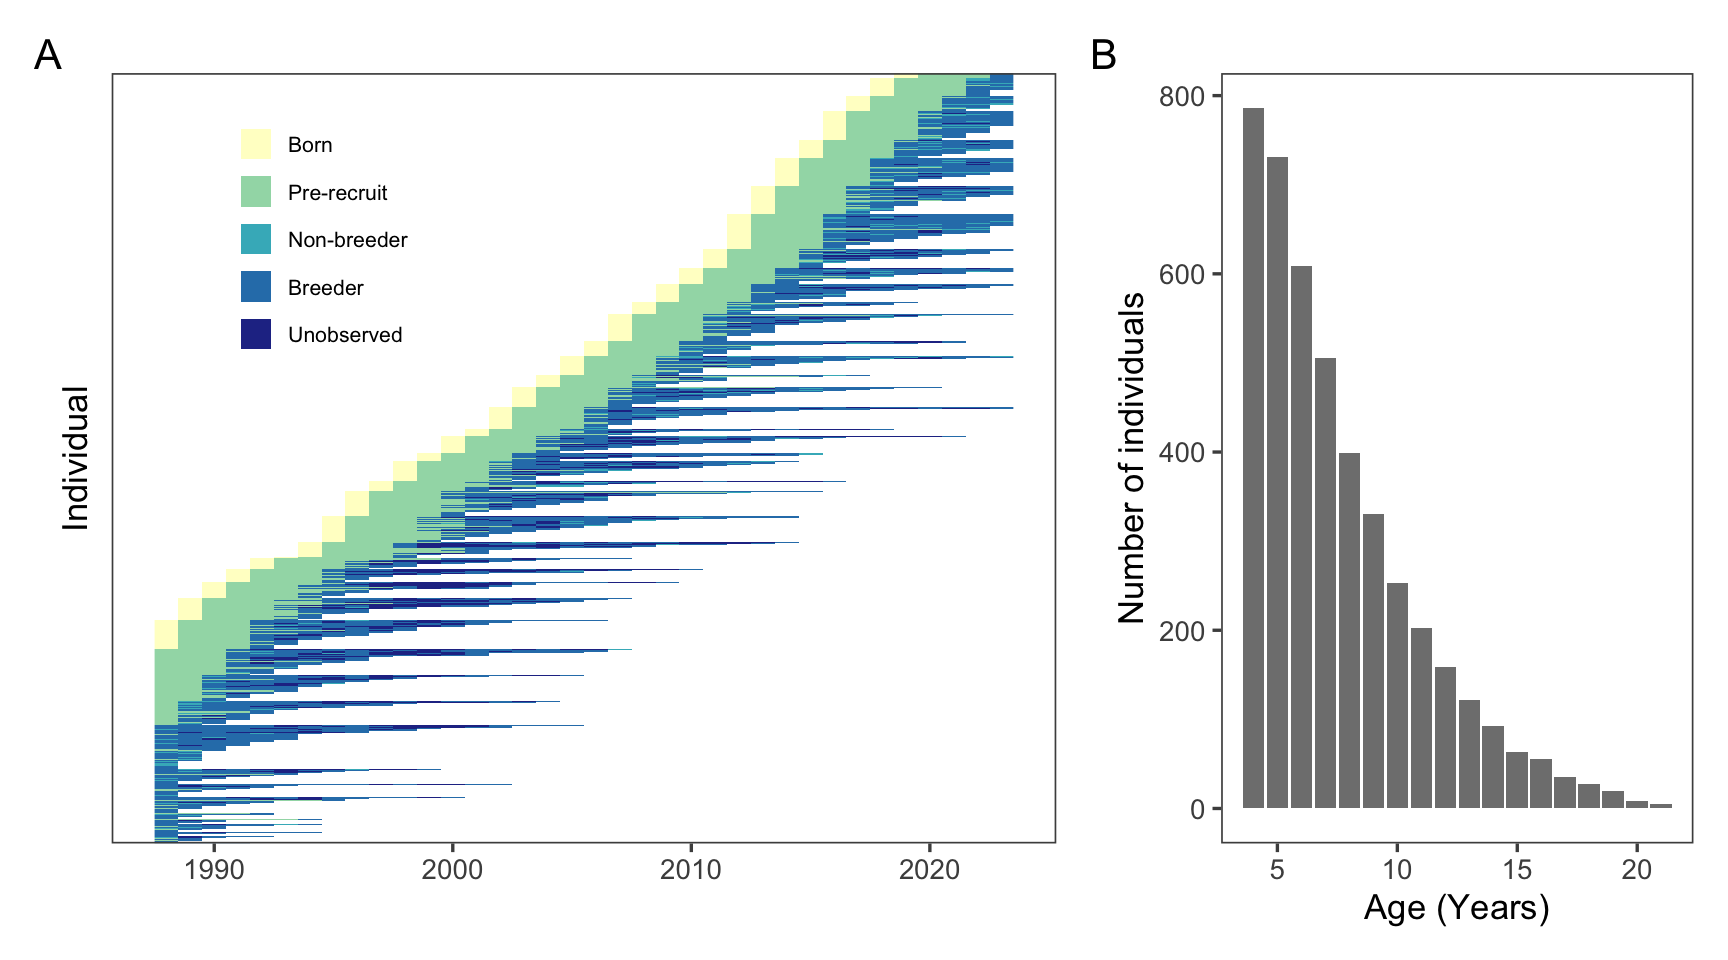
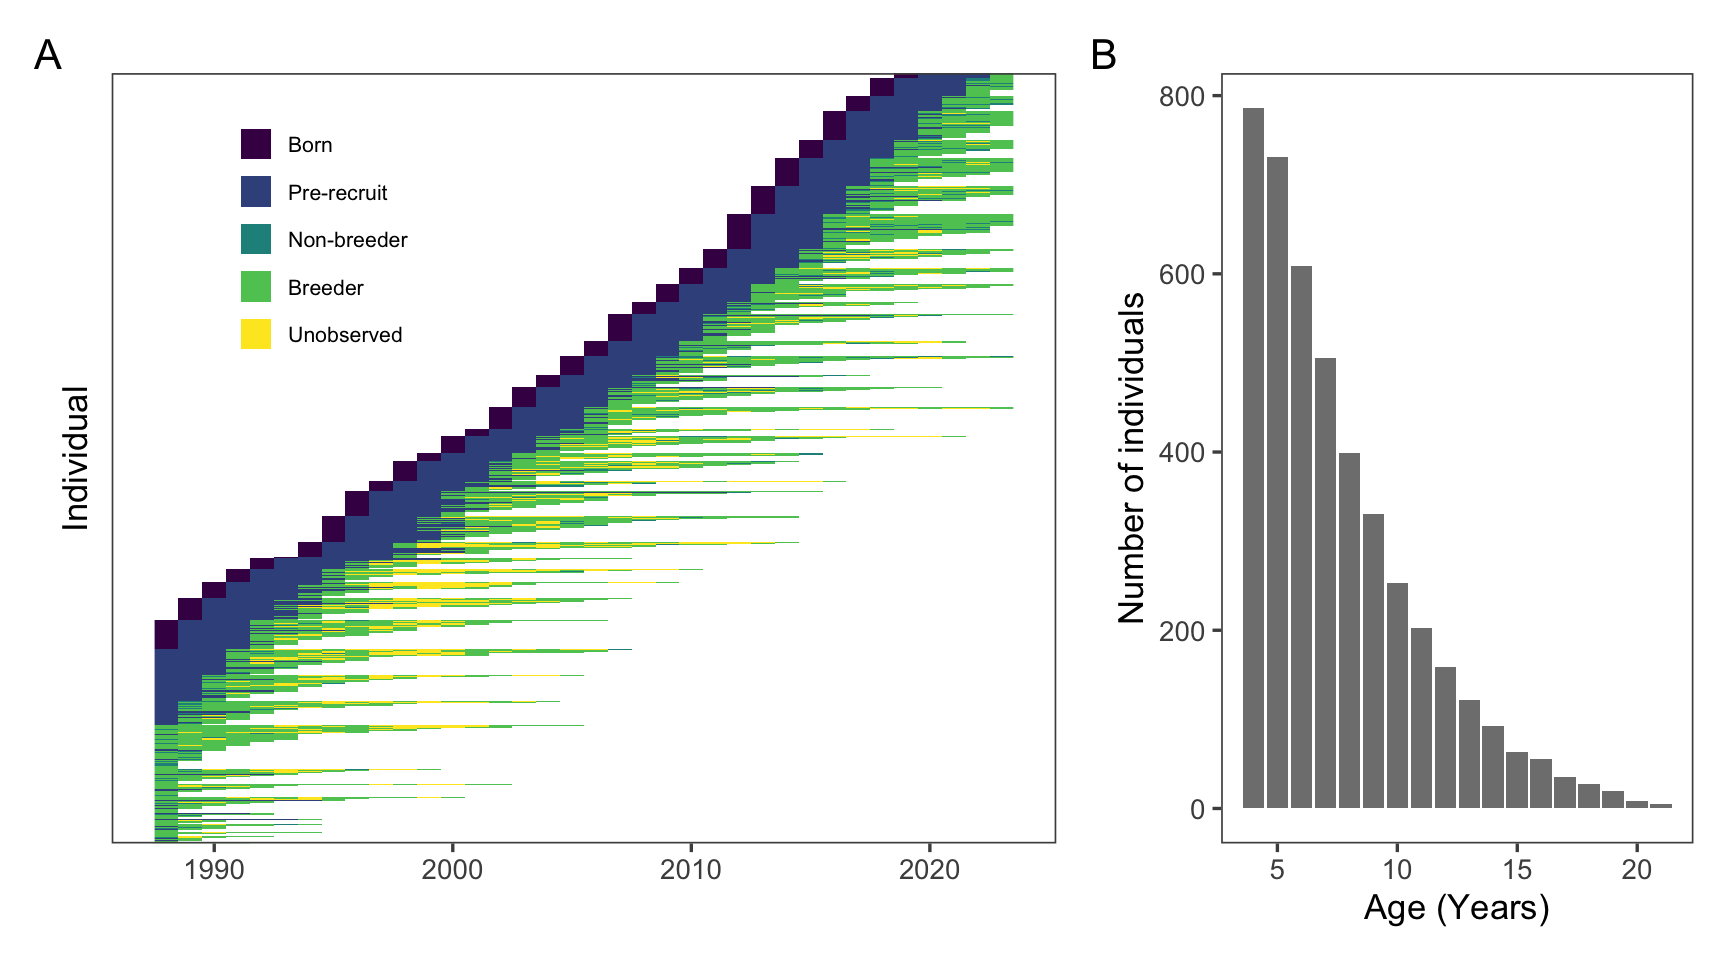
Updating the detection probability figure

Changed region(s): [[0.0625, 0.0625, 0.5938, 0.875], [0.125, 0.125, 0.1562, 0.375]]

diff --git a/docs/paperv3.html b/docs/paperv3.html
@@ -1832,7 +1832,7 @@ window.document.addEventListener("DOMContentLoaded", function (event) {
 <span id="cb41-125"><a href="#cb41-125" aria-hidden="true" tabindex="-1"></a>  <span class="fu">filter</span>(year <span class="sc">&gt;</span> <span class="dv">1987</span>) <span class="sc">%&gt;%</span> </span>
 <span id="cb41-126"><a href="#cb41-126" aria-hidden="true" tabindex="-1"></a>  <span class="fu">ggplot</span>(<span class="fu">aes</span>(year, animalID)) <span class="sc">+</span></span>
 <span id="cb41-127"><a href="#cb41-127" aria-hidden="true" tabindex="-1"></a>  <span class="fu">geom_raster</span>(<span class="fu">aes</span>(<span class="at">fill =</span> observed)) <span class="sc">+</span></span>
-<span id="cb41-128"><a href="#cb41-128" aria-hidden="true" tabindex="-1"></a>  <span class="fu">scale_fill_brewer</span>(<span class="at">palette =</span> <span class="st">"YlGnBu"</span>, <span class="at">direction =</span> <span class="dv">1</span>) <span class="sc">+</span></span>
+<span id="cb41-128"><a href="#cb41-128" aria-hidden="true" tabindex="-1"></a>  <span class="fu">scale_fill_viridis_d</span>(<span class="at">direction =</span> <span class="dv">1</span>) <span class="sc">+</span></span>
 <span id="cb41-129"><a href="#cb41-129" aria-hidden="true" tabindex="-1"></a>  <span class="fu">guides</span>(<span class="at">fill =</span> <span class="fu">guide_legend</span>(<span class="at">position =</span> <span class="st">"inside"</span>, </span>
 <span id="cb41-130"><a href="#cb41-130" aria-hidden="true" tabindex="-1"></a>                             <span class="at">direction =</span> <span class="st">"horizontal"</span>,</span>
 <span id="cb41-131"><a href="#cb41-131" aria-hidden="true" tabindex="-1"></a>                             <span class="at">ncol =</span> <span class="dv">1</span>,</span>
